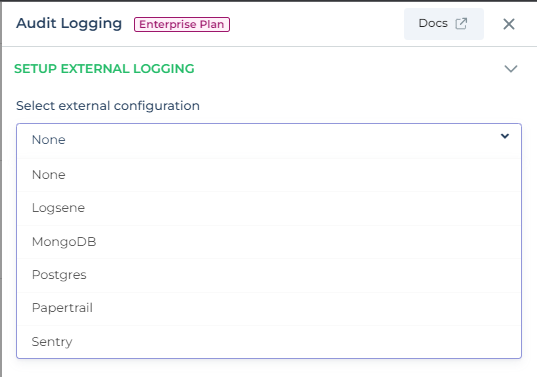
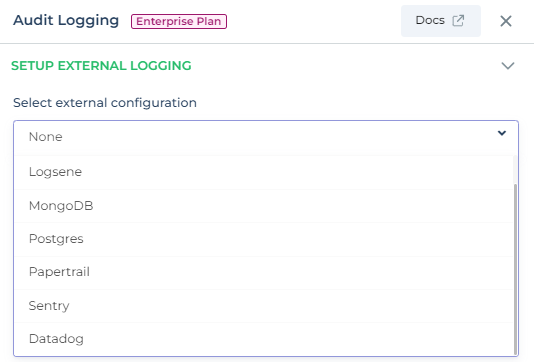
Datadog Documentation Added

Changed region(s): [[0.0, 0.0, 1.0, 1.0]]

diff --git a/docs/audit-logger/datadog-setup.md b/docs/audit-logger/datadog-setup.md
@@ -1,0 +1,76 @@
+---
+sidebar_position: 6
+title: "Datadog Setup"
+description: Learn the basics of building an app on DronaHQ.
+---
+
+import Thumbnail from '@site/src/components/Thumbnail';
+import VersionedLink from '@site/src/components/VersionedLink';
+
+# Datadog Integration
+
+This documentation provides step-by-step instructions on how to integrate Datadog for logging within the DronaHQ platform.
+
+## Introduction
+
+Datadog integration allows you to capture and analyze logs efficiently in your DronaHQ modules. Follow the steps below to set up Datadog as your logging solution.
+
+### Prerequisites
+
+Before you begin, ensure that you have the following prerequisites in place:
+
+- A DronaHQ account with an Enterprise Plan.
+- Access to a Datadog account.
+- Datadog API key.
+
+## Configuration Steps
+
+To get started with Datadog integration, follow these steps:
+
+1. Open your Datadog account and obtain the API key.
+
+2. In DronaHQ, under the `Log Settings` section, click on `Setup External Logging.`
+
+3. In the "Select Logger Configuration" dropdown, choose "Datadog."
+
+<figure>
+  <Thumbnail src="/img/audit-logger/dropdown-logger.png" alt="Audit logger Dropdown select" width='100%'/>
+  <figcaption align = "center"><i>Audit logger Dropdown select</i></figcaption>
+</figure>
+
+4. Provide the necessary connection details for Datadog, including the API key and Service Name.
+
+5. Go to Datadog > Logs > Choose Cloud , and wait for logs which is about to be sent from DronaHQ.
+
+<figure>
+  <Thumbnail src="/img/audit-logger/datadog-logger-setup.png" alt="Audit logger Dropdown select" width='100%'/>
+  <figcaption align = "center"><i>Datadog Choose Log Source</i></figcaption>
+</figure>
+
+5. In DronaHQ, Click the "Create Integration" button to initiate the integration process.
+
+6. Once the integration is successful, you will see a `Logger Initialized` message.
+
+<figure>
+  <Thumbnail src="/img/audit-logger/audit-logger-setup.png" alt="Audit Logger Setup" width='100%'/>
+  <figcaption align = "center"><i>Audit Logger Setup</i></figcaption>
+</figure>
+
+## Expected log in Datadog:
+
+<figure>
+  <Thumbnail src="/img/audit-logger/output-datadog.png" alt="External log Output" width='100%'/>
+  <figcaption align = "center"><i>External log Output</i></figcaption>
+</figure>
+
+## Testing Datadog Integration
+
+You can test the Datadog integration to ensure it's functioning as expected:
+
+1. Within the External Logging settings, look for the `Test` button and input custom log details.
+
+2. Log specific details such as event names, user information, organization ID, and more. This data will be useful for monitoring and analysis.
+
+By following these steps, you can seamlessly integrate Datadog as a logger in your DronaHQ account, enhancing your log management capabilities.
+
+*Note: Ensure that you provide accurate Datadog API key and connection details for a smooth integration experience.*

diff --git a/docs/audit-logger/mongodb-setup.md b/docs/audit-logger/mongodb-setup.md
@@ -59,7 +59,7 @@ To configure MongoDB as your audit logger, follow these steps:
 
 <figure>
   <Thumbnail src="/img/audit-logger/audit-logger-setup.png" alt="Audit Logger Setup" width='100%'/>
-  <figcaption align = "center"><i>Audit logger Dropdown select</i></figcaption>
+  <figcaption align = "center"><i>Audit Logger Setup</i></figcaption>
 </figure>
 
 ## Expected log in MongoDB:
